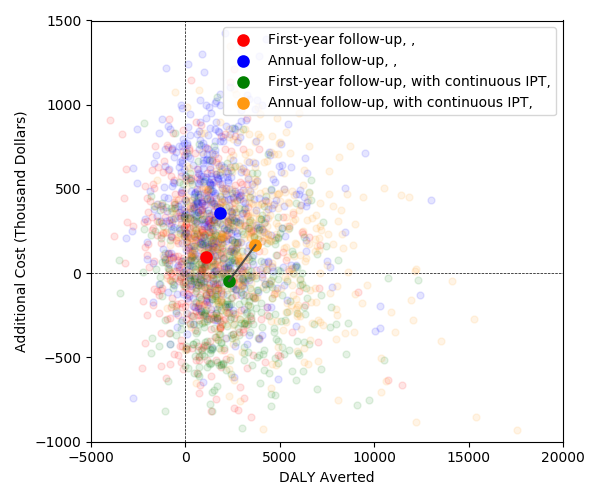
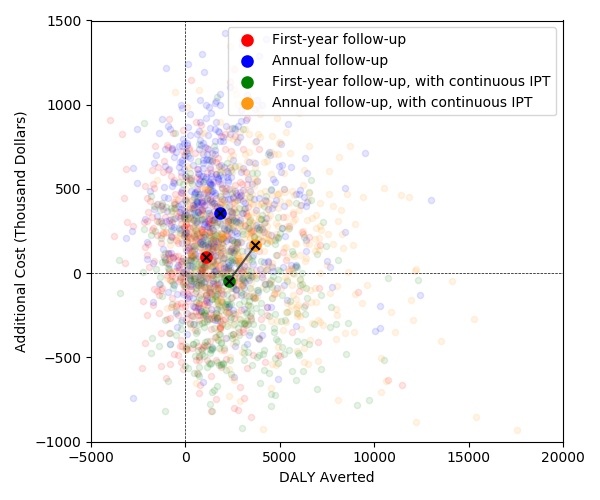
updated acceptability curves

diff --git a/tb/TB_CEA.py b/tb/TB_CEA.py
@@ -3,7 +3,7 @@ import apace.ScenariosClasses as Cls
 import numpy as np
 
 markers = ['o', 's', '^', 'D']
-colors = ['r', 'b', 'g', '#FF9912']
+colors = ['k', 'r', 'b', 'g', '#FF9912']
 
 PROB_UPTAKE = 0.75      # 0.5, 0.75, 1
 PROB_DROPOUT = 0.15     # 0.1, 0.15, 0.25,
@@ -100,7 +100,7 @@ for i, ser in enumerate(series):
 
     if not withCloud:
         for j, x_value in enumerate(ser.xValues):
-            ax.plot(x_value, ser.yValues[j], markers[j], color=colors[j],
+            ax.plot(x_value, ser.yValues[j], markers[j], color=colors[j+1],
                     markersize=8, mew=1)
 
         # # error bars
@@ -126,9 +126,14 @@ for i, ser in enumerate(series):
                        s=50,
                        marker='o',  # markers
                        label=s.name, # name to show in the legend
-                       zorder=2
-                       #markersize=12,  # marker size
-                       #markeredgewidth=2
+                       zorder=2,
+                       linewidths=0,
+                       #edgecolors='k',
+                       )  # marker edge width
+            ax.scatter(s.dEffect.get_mean(), s.dCost.get_mean()/1000,
+                       marker='x',
+                       c='k',
+                       zorder=3
                        )  # marker edge width
             # add the cloud
             #if not s.ifDominated:
@@ -136,7 +141,7 @@ for i, ser in enumerate(series):
                 ax.scatter(s.dEffectObs, np.divide(s.dCostObs, 1000),
                            c=s.color,  # color of dots
                            alpha=0.1,  # transparency of dots
-                           s=25,  # size of dots
+                           s=20,  # size of dots
                            zorder=1
                            )
 

diff --git a/apace/ScenariosClasses.py b/apace/ScenariosClasses.py
@@ -449,7 +449,7 @@ def populate_series(series_list,
             name='Base',
             cost_obs=scn.outcomes[COST_MEASURE],
             effect_obs=scn.outcomes[HEALTH_MEASURE],
-            color=None
+            color=colors_of_strategies[0]
         )
 
         # add base
@@ -474,9 +474,18 @@ def populate_series(series_list,
                             else:
                                 label_list.append(varCon.labelFormat.format(value) + ',')
                         else:
-                            label_list.append(varCon.get_label(value) + ', ')
+                            label = varCon.get_label(value)
+                            if label == '':
+                                pass
+                            else:
+                                label_list.append(label + ', ')
 
-                label = ''.join(str(x) for x in label_list)[:-1]
+                label = ''.join(str(x) for x in label_list)
+
+                if label[-1] == ' ' or label[-1] == ',':
+                    label = label[:-1]
+                if label[-1] == ' ' or label[-1] == ',':
+                    label = label[:-1]
 
                 # legends
                 ser.legend.append(label)
@@ -484,7 +493,7 @@ def populate_series(series_list,
                 # color of this strategy
                 color = None
                 if colors_of_strategies is not None:
-                    color = colors_of_strategies[i]
+                    color = colors_of_strategies[i+1]
 
                 ser.strategies.append(
                     Econ.Strategy(
